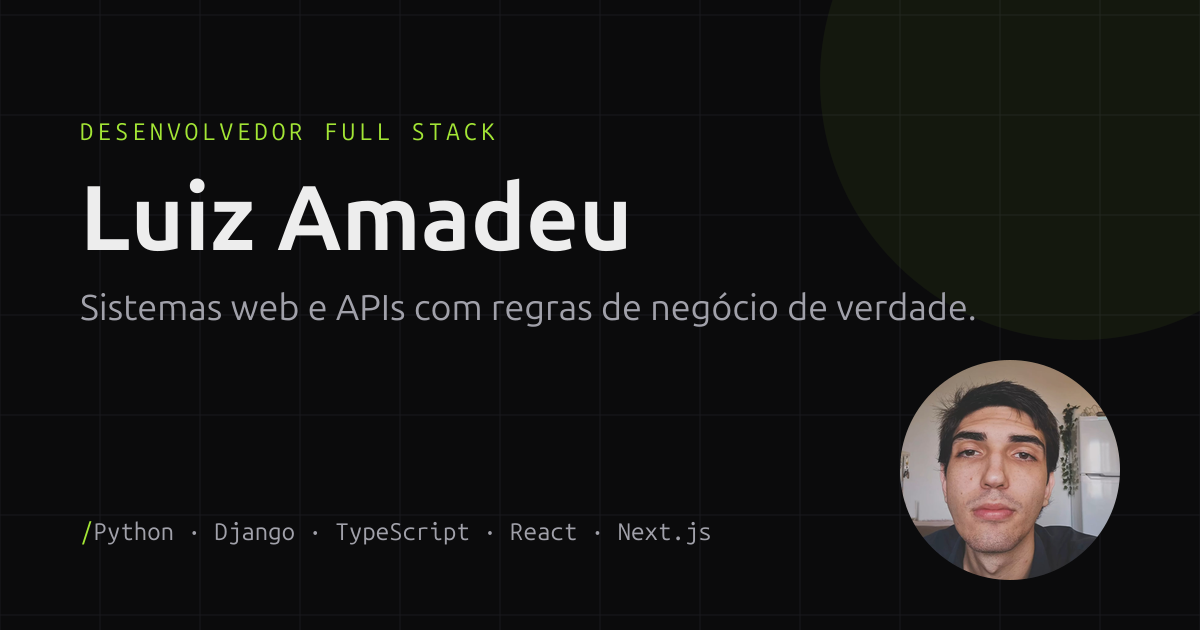
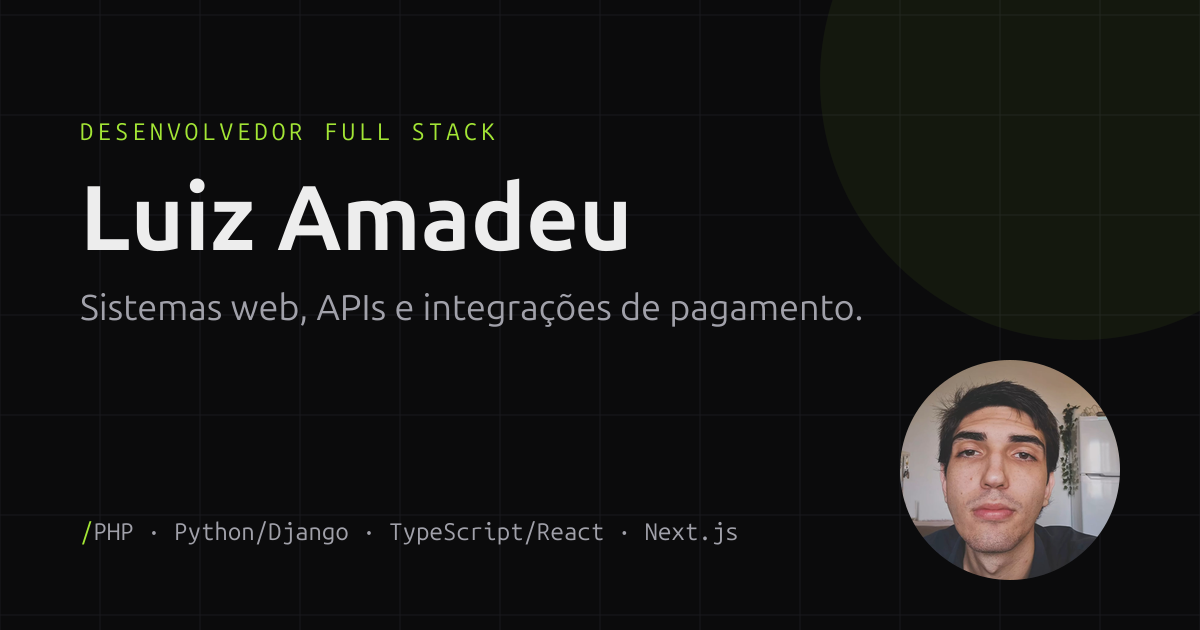
feat: Simplifica o título da home
- Título passa a ser o nome, com uma frase direta sobre o que faço
- Remove a frase de efeito em itálico e a fonte Instrument Serif
- Meta description e og.png atualizados com o texto novo

Changed region(s): [[0.0925, 0.8143, 0.6167, 0.8746], [0.2467, 0.4524, 0.8017, 0.5127]]

diff --git a/src/i18n/index.ts b/src/i18n/index.ts
@@ -33,7 +33,7 @@ export const ui = {
   pt: {
     "meta.title": "Luiz Amadeu — Desenvolvedor Full Stack",
     "meta.description":
-      "Desenvolvedor full stack (PHP, Python/Django, TypeScript/React/Next.js). Sistemas web, APIs e integrações com regras de negócio de verdade.",
+      "Desenvolvedor full stack em Joinville, SC. Sistemas web, APIs e integrações de pagamento com PHP, Python/Django e React/Next.js.",
     "nav.home": "início",
     "nav.blog": "blog",
     "nav.projects": "projetos",
@@ -44,8 +44,8 @@ export const ui = {
     "lang.switch": "Read in English",
     "hero.eyebrow": "Desenvolvedor Full Stack",
     "hero.available": "Aberto a oportunidades",
-    "hero.title": "Desenvolvo sistemas web e APIs em torno de regras de negócio de verdade.",
-    "hero.titleAccent": "Do Django ao Next.js, com código que dura.",
+    "hero.lead":
+      "Construo sistemas web, APIs e integrações de pagamento com PHP, Python/Django e React/Next.js.",
     "hero.cta.projects": "Ver projetos",
     "hero.cta.blog": "Ler o blog",
     "hero.cta.cv": "Baixar CV",
@@ -154,7 +154,7 @@ export const ui = {
   en: {
     "meta.title": "Luiz Amadeu — Full Stack Developer",
     "meta.description":
-      "Full stack developer (PHP, Python/Django, TypeScript/React/Next.js). Web systems, APIs and integrations built around real business rules.",
+      "Full stack developer based in Joinville, Brazil. Web systems, APIs and payment integrations with PHP, Python/Django and React/Next.js.",
     "nav.home": "home",
     "nav.blog": "blog",
     "nav.projects": "projects",
@@ -165,8 +165,8 @@ export const ui = {
     "lang.switch": "Ler em português",
     "hero.eyebrow": "Full Stack Developer",
     "hero.available": "Open to opportunities",
-    "hero.title": "I build web systems and APIs around real business rules.",
-    "hero.titleAccent": "From Django to Next.js, with code that lasts.",
+    "hero.lead":
+      "I build web systems, APIs and payment integrations with PHP, Python/Django and React/Next.js.",
     "hero.cta.projects": "See projects",
     "hero.cta.blog": "Read the blog",
     "hero.cta.cv": "Download CV",

diff --git a/src/styles/global.css b/src/styles/global.css
@@ -49,7 +49,6 @@
 
   --font-sans: "Geist Variable", ui-sans-serif, system-ui, sans-serif;
   --font-mono: "Geist Mono Variable", ui-monospace, "SFMono-Regular", monospace;
-  --font-serif: "Instrument Serif", ui-serif, Georgia, serif;
 }
 
 /* ---------- Base ---------- */
